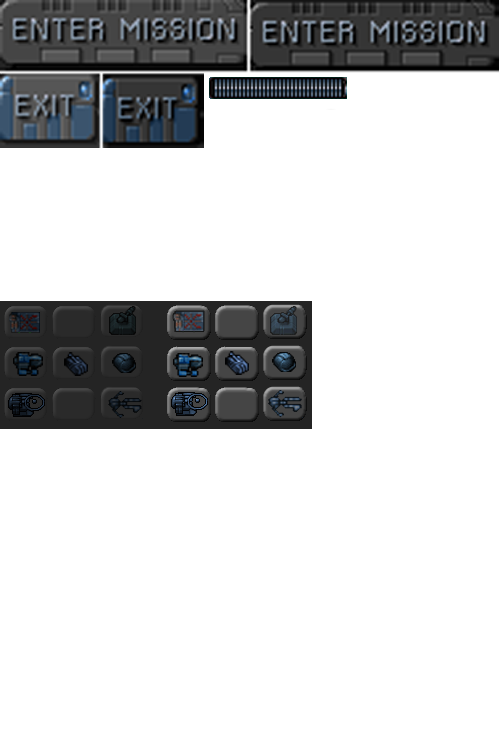
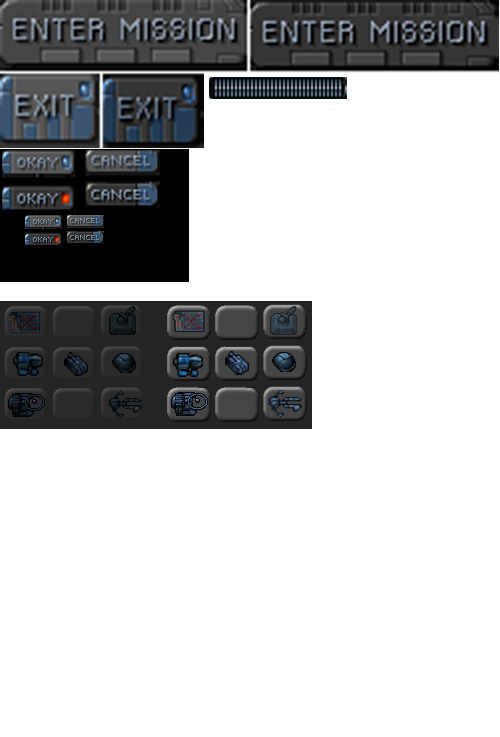
实现消息对话框 实现触发器 初步建立游戏任务

Changed region(s): [[0.0, 0.1872, 0.39, 0.4057]]

diff --git a/styles.css b/styles.css
@@ -175,64 +175,132 @@
 			width: 41px;
 			height: 35px;
 			border-width: 0;
-			padding:0;
-			background-image:url(Images/buttons.png);
+			padding: 0;
+			background-image: url(Images/buttons.png);
 		}
 
-		/* 按钮变灰状态 */
-		#starportbutton:active, #starportbutton:disabled {
-			background-position: -2px -305px;
-		}
-		#placeholder1:active, #placeholder1:disabled {
-			background-position: -52px -305px;
-		}
-		#turretbutton:active, #turretbutton:disabled {
-			background-position: -102px -305px;
-		}
-		#scouttankbutton:active, #scouttankbutton:disabled {
-			background-position: -2px -346px;
-		}
-		#heavytankbutton:active, #heavytankbutton:disabled {
-			background-position: -52px -346px;
-		}
-		#harvesterbutton:active, #harvesterbutton:disabled {
-			background-position: -102px -346px;
-		}
-		#chopperbutton:active, #chopperbutton:disabled {
-			background-position: -2px -387px;
-		}
-		#placeholder2:active, #placeholder2:disabled {
-			background-position: -52px -387px;
-		}
-		#wraithbutton:active, #wraithbutton:disabled {
-			background-position: -102px -387px;
-		}
+/* 按钮变灰状态 */
+#starportbutton:active, #starportbutton:disabled {
+	background-position: -2px -305px;
+}
 
-		/* 按钮正常状态 */
-		#starportbutton {
-			background-position: -167px -305px;
-		}
-		#placeholder1 {
-			background-position: -216px -305px;
-		}
-		#turretbutton {
-			background-position: -264px -305px;
-		}
-		#scouttankbutton {
-			background-position: -167px -346px;
-		}
-		#heavytankbutton {
-			background-position: -216px -346px;
-		}
-		#harvesterbutton {
-			background-position: -264px -346px;
-		}
-		#chopperbutton {
-			background-position: -167px -387px;
-		}
-		#placeholder2 {
-			background-position: -216px -387px;
-		}
-		#wraithbutton {
-			background-position: -264px -387px;
-		}
+#placeholder1:active, #placeholder1:disabled {
+	background-position: -52px -305px;
+}
+
+#turretbutton:active, #turretbutton:disabled {
+	background-position: -102px -305px;
+}
+
+#scouttankbutton:active, #scouttankbutton:disabled {
+	background-position: -2px -346px;
+}
+
+#heavytankbutton:active, #heavytankbutton:disabled {
+	background-position: -52px -346px;
+}
+
+#harvesterbutton:active, #harvesterbutton:disabled {
+	background-position: -102px -346px;
+}
+
+#chopperbutton:active, #chopperbutton:disabled {
+	background-position: -2px -387px;
+}
+
+#placeholder2:active, #placeholder2:disabled {
+	background-position: -52px -387px;
+}
+
+#wraithbutton:active, #wraithbutton:disabled {
+	background-position: -102px -387px;
+}
+
+/* 按钮正常状态 */
+#starportbutton {
+	background-position: -167px -305px;
+}
+
+#placeholder1 {
+	background-position: -216px -305px;
+}
+
+#turretbutton {
+	background-position: -264px -305px;
+}
+
+#scouttankbutton {
+	background-position: -167px -346px;
+}
+
+#heavytankbutton {
+	background-position: -216px -346px;
+}
+
+#harvesterbutton {
+	background-position: -264px -346px;
+}
+
+#chopperbutton {
+	background-position: -167px -387px;
+}
+
+#placeholder2 {
+	background-position: -216px -387px;
+}
+
+#wraithbutton {
+	background-position: -264px -387px;
+}
+
+/* 消息框画面 */
+#messageboxscreen {
+	background:rgba(0, 0, 0, 0.7);
+	z-index:20;
+}
+#messagebox {
+	position:absolute;
+	top:170px;
+	left:140px;
+	width:296px;
+	height:178px;
+	color:white;
+	background:url(Images/messagebox.png) no-repeat center;
+	color:rgb(130, 150, 162);
+	overflow:hidden;
+	font-size:13px;
+	font-family: Courier New, Courier, monospace;
+}
+#messagebox span {
+	position:absolute;
+	top:30px;
+	left:50px;
+	width:200px;
+	height:100px;
+}
+#messagebox input[type="button"] {
+	background-image:url(Images/buttons.png);
+	position:absolute;
+	border-width:0;
+	padding:0;
+}
+#messageboxok {
+	background-position: -2px -150px;
+	top:126px;
+	left:11px;
+	width:74px;
+	height:26px;
+}
+#messageboxok:active, #messageboxok:disabled {
+	background-position: -2px -186px;
+}
+#messageboxcancel {
+	background-position: -86px -150px;
+	left:197px;
+	top:129px;
+	width:73px;
+	height:24px;
+}
+#messageboxcancel:active, #messageboxcancel:disabled {
+	background-position: -86px -184px;
+}

diff --git a/Js/game.js b/Js/game.js
@@ -30,6 +30,12 @@ var game = {
 		game.refreshBackground = true;
 
 		game.drawingLoop();
+
+		$('#gamemessages').html('');
+		// 初始化所有的触发器
+		for (var i = game.currentLevel.triggers.length - 1 ; i >= 0; i--) {
+			game.initTrigger(game.currentLevel.triggers[i]);
+		};
 	},
 	// 地图被分割成20像素X20像素的方形网格
 	gridSize: 20,
@@ -347,4 +353,88 @@ var game = {
 		};
 
 	},
+	// 与消息框相关的代码
+	messageBoxOkCallback: undefined,
+	messageBoxCancelCallback: undefined,
+	showMessageBox: function (message, onOk, onCancel) {
+		// 设置消息框文本
+		$('#messageboxtext').html(message);
+
+		// 设置消息框ok和cancel按钮处理函数，启用按钮
+		if (!onOk) {
+			game.messageBoxOkCallback = undefined;
+		} else {
+			game.messageBoxOkCallback = onOk;
+		}
+
+		if (!onCancel) {
+			game.messageBoxCancelCallback = undefined;
+			$('#messageboxcancel').hide();
+		} else {
+			game.messageBoxCancelCallback = onCancel;
+			$('#messageboxcancel').show();
+		}
+
+		// 显示消息框并等待用户响应
+		$('#messageboxscreen').show();
+
+	},
+	messageBoxOk: function () {
+		$('#messageboxscreen').hide();
+		if (game.messageBoxOkCallback) {
+			game.messageBoxOkCallback();
+		}
+	},
+	messageBoxCancel: function () {
+		$('#messageboxscreen').hide();
+		if (game.messageBoxCancelCallback) {
+			game.messageBoxCancelCallback();
+		}
+	},
+	// 游戏中处理触发器事件的方法
+	initTrigger: function (trigger) {
+		if (trigger.type == "timed") {
+			trigger.timeout = setTimeout(function () {
+				game.runTrigger(trigger);
+			}, trigger.time);
+		} else if (trigger.type == "conditional") {
+			trigger.interval = setInterval(function () {
+				game.runTrigger(trigger);
+			}, 1000);
+		}
+	},
+	runTrigger: function (trigger) {
+		if (trigger.type == "timed") {
+			// 基于触发器是否重复调用，重新初始化触发器
+			if (trigger.repeat) {
+				game.initTrigger(trigger);
+			}
+			// 调用触发器动作
+			trigger.action(trigger);
+		} else if (trigger.type == "conditional") {
+			// 检查条件是否满足
+			if (trigger.condition()) {
+				// 清除触发器
+				game.clearTrigger(trigger);
+				// 调用触发器动作
+				trigger.action(trigger);
+			}
+		}
+	},
+	clearTrigger: function (trigger) {
+		if (trigger.type == "timed") {
+			clearTimeout(trigger.timeout);
+		} else if (trigger.type == "conditional") {
+			clearInterval(trigger.interval);
+		}
+	},
+	end: function () {
+		// 清除游戏中所有的触发器
+		if (game.currentLevel.triggers) {
+			for (var i = game.currentLevel.triggers.length - 1; i >= 0; i--) {
+				game.clearTrigger(game.currentLevel.triggers[i]);
+			};
+		}
+		game.running = false;
+	}
 }

diff --git a/Js/maps.js b/Js/maps.js
@@ -39,7 +39,7 @@
 				{ "type": "buildings", "name": "ground-turret", "x": 16, "y": 10, "team": "blue", "action": "teleport" },
 
 				{ "type": "vehicles", "name": "transport", "x": 26, "y": 10, "team": "blue", "direction": 2 },
-				{ "type": "vehicles", "name": "harvester", "x": 4, "y": 8, "team": "blue", "direction": 3, "uid":-1, },
+				{ "type": "vehicles", "name": "harvester", "x": 4, "y": 20, "team": "blue", "direction": 3, "uid":-1, },
 				{ "type": "vehicles", "name": "scout-tank", "x": 26, "y": 14, "team": "blue", "direction": 4 },
 				{ "type": "vehicles", "name": "heavy-tank", "x": 26, "y": 16, "team": "blue", "direction": 5 },
 
@@ -109,6 +109,30 @@
 				[26, 35], [27, 35], [25, 36], [26, 36], [27, 36], [25, 37], [26, 37], [23, 38], [24, 38], [25, 38], [26, 38],
 				[26, 39], [2, 25], [9, 19], [36, 31]
 			],
+			/* 条件和时间触发器事件 */
+			"triggers": [
+				// 时间事件
+				{
+					"type": "timed", "time": 1000, "action": function () {
+						game.showMessage("system", "You have 20 seconds left.\nGet the harvester near the oil field.");
+					}
+				},
+				{
+					"type": "timed", "time": 21000, "action": function () {
+						singleplayer.endLevel(false);
+					}
+				},
+				// 条件事件
+				{
+					"type": "conditional", "condition": function () {
+						var transport = game.getItemByUid(-1);
+						return (transport.x < 10 && transport.y < 10);
+					},
+					"action": function () {
+						singleplayer.endLevel(true);
+					}
+				}
+			]
 		},
 	]
 }

diff --git a/index.html b/index.html
@@ -30,7 +30,7 @@
         <div id="missionscreen" class="gamelayer">
             <input type="button" id="entermission" onclick="singleplayer.play();" />
             <input type="button" id="exitmission" onclick="singleplayer.exit();" />
-            <div id="missionbriefing"></div>
+            <div id="missionbriefing">Welcome to your first mission.</div>
         </div>
         <!-- 游戏界面 -->
         <div id="gameinterfacescreen" class="gamelayer">
@@ -52,6 +52,14 @@
             </div>
             <canvas id="gamebackgroundcanvas" height="400" width="480"></canvas>
             <canvas id="gameforegroundcanvas" height="400" width="480"></canvas>
+        </div>
+        <!-- 消息框 -->
+        <div id="messageboxscreen" class="gamelayer">
+            <div id="messagebox">
+                <span id="messageboxtext"></span>
+                <input type="button" id="messageboxok" onclick="game.messageBoxOk();" />
+                <input type="button" id="messageboxcancel" onclick="game.messageBoxCancel();" />
+            </div>
         </div>
         <!-- 加载画面 -->
         <div id="loadingscreen" class="gamelayer">

diff --git a/Js/singleplayer.js b/Js/singleplayer.js
@@ -88,5 +88,34 @@
 	},
 	sendCommand: function (uids, details) {
 		game.processCommand(uids,details);
-	}
+	},
+	endLevel: function (success) {
+		clearInterval(game.animationInterval);
+		game.end();
+
+		if (success) {
+			var moreLevels = (singleplayer.currentLevel < maps.singleplayer.length - 1);
+			if (moreLevels) {
+				game.showMessageBox("Mission Accomplished.", function () {
+					$('.gamelayer').hide();
+					singleplayer.currentLevel++;
+					singleplayer.startCurrentLevel();
+				});
+			} else {
+				game.showMessageBox("Mission Accomplished.<br /> <br />This was the last mission in the campaign.<br/><br/>Thank you for playing.", function () {
+					$('.gamelayer').hide();
+					$('#gamestartscreen').show();
+				});
+			}
+		} else {
+			game.showMessageBox("Mission Failed.<br/><br/> Try again?", function () {
+				$('.gamelayer').hide();
+				singleplayer.startCurrentLevel();
+			}, function () {
+				$('.gamelayer').hide();
+				$('#gamestartscreen').show();
+			});
+		}
+	},
+
 }
